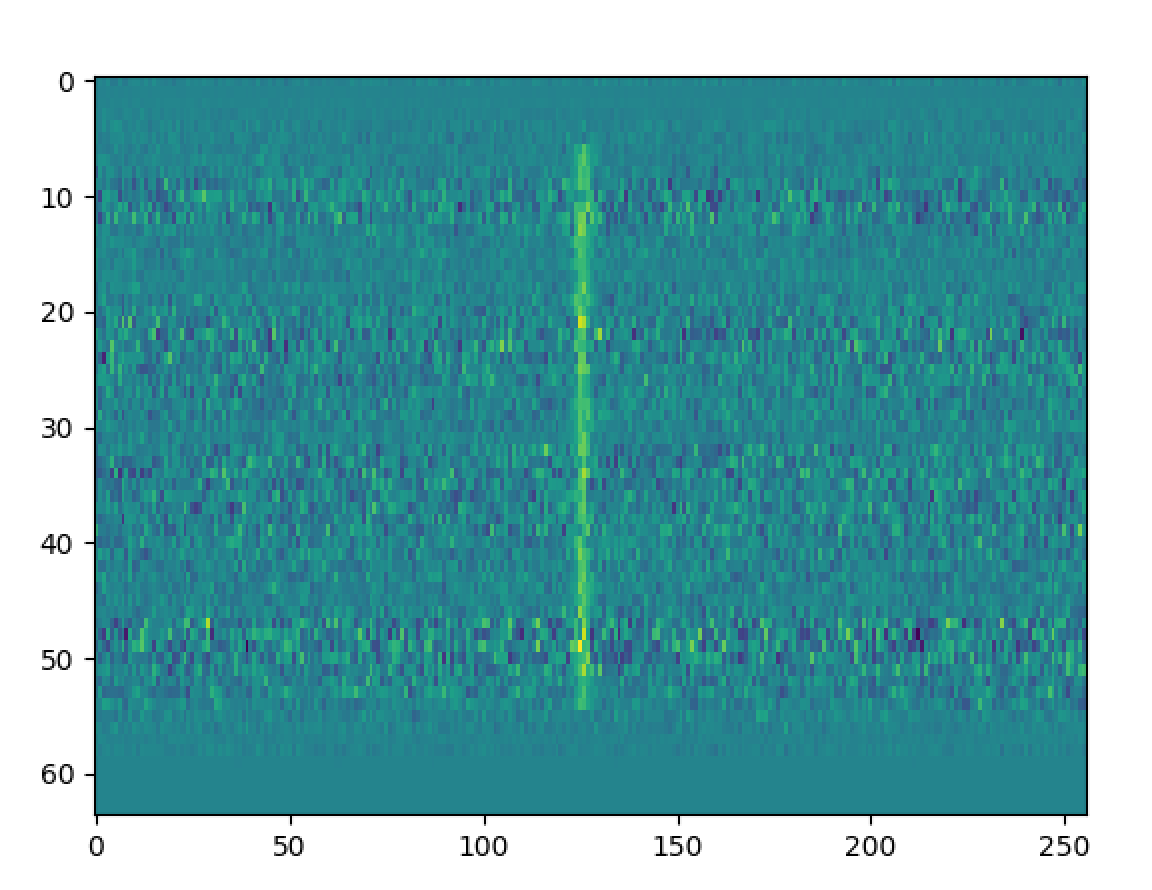
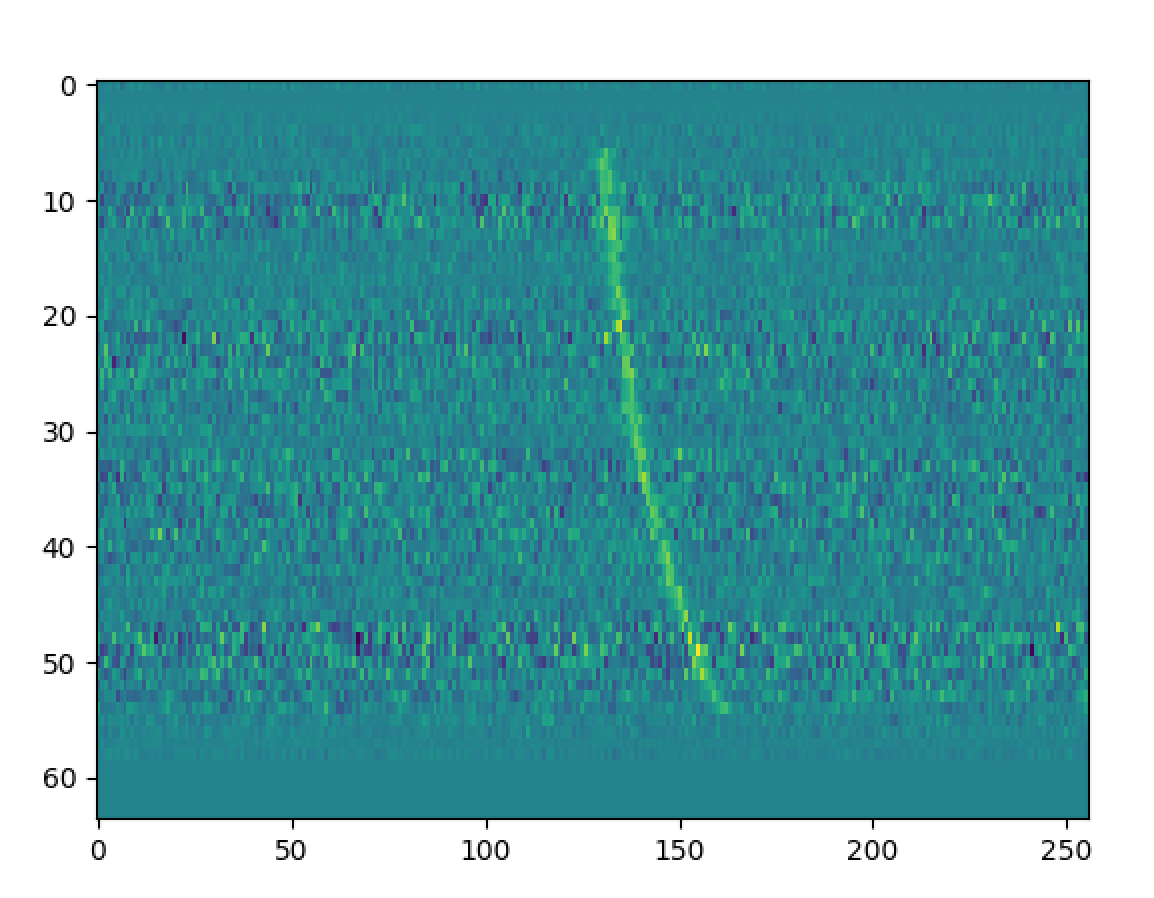
Updated plots

Changed region(s): [[0.0312, 0.0607, 0.9688, 0.9708]]

diff --git a/FRBfiveplot.py b/FRBfiveplot.py
@@ -34,7 +34,7 @@ def generate_five(spectra_array, classification_labels):
             print(spectra_array[i].freqs.max(), spectra_array[i].freqs.min(), spectra_array[i].dm)
             dmvstm_array = create_dmvstime_array(spectra_array[i])
             spectra_array[i].dm = 0
-            plt.imshow(spectra_array[i].data, aspect='auto')
+            plt.imshow(np.fliplr(spectra_array[i].data), aspect='auto')
             plt.show()
             plt.imshow(dmvstm_array, aspect='auto')
             plt.show()
